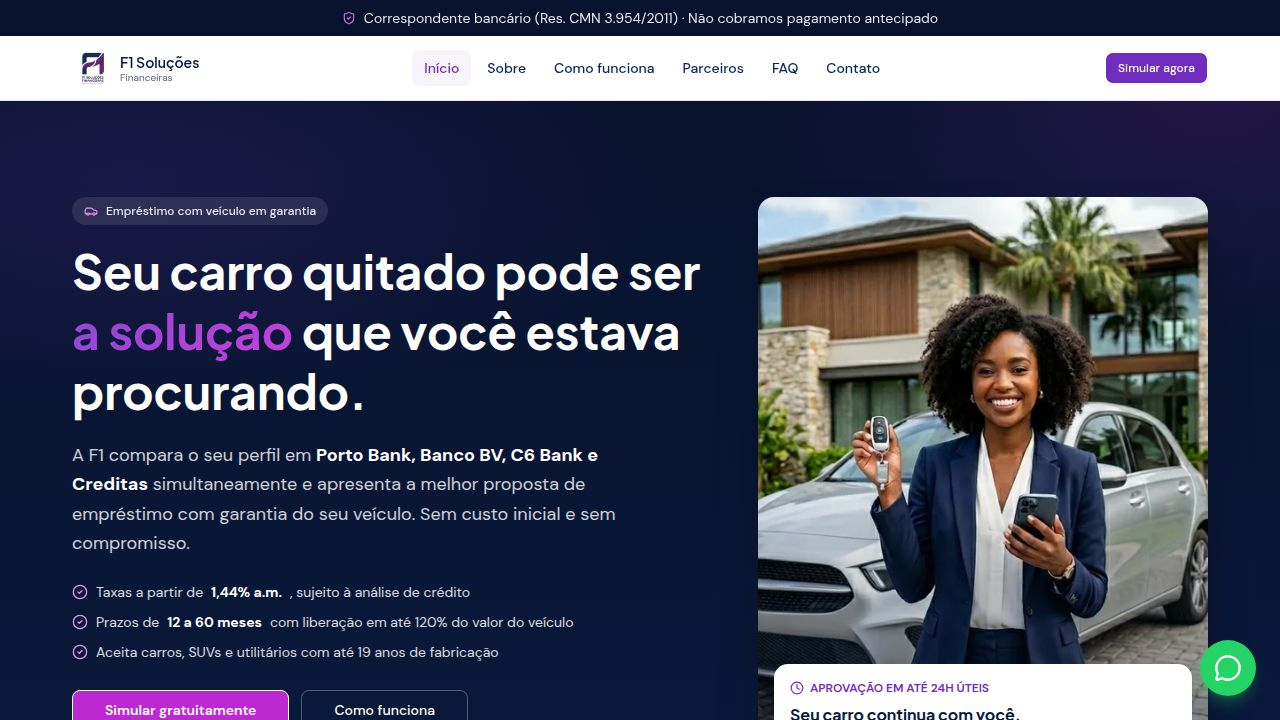
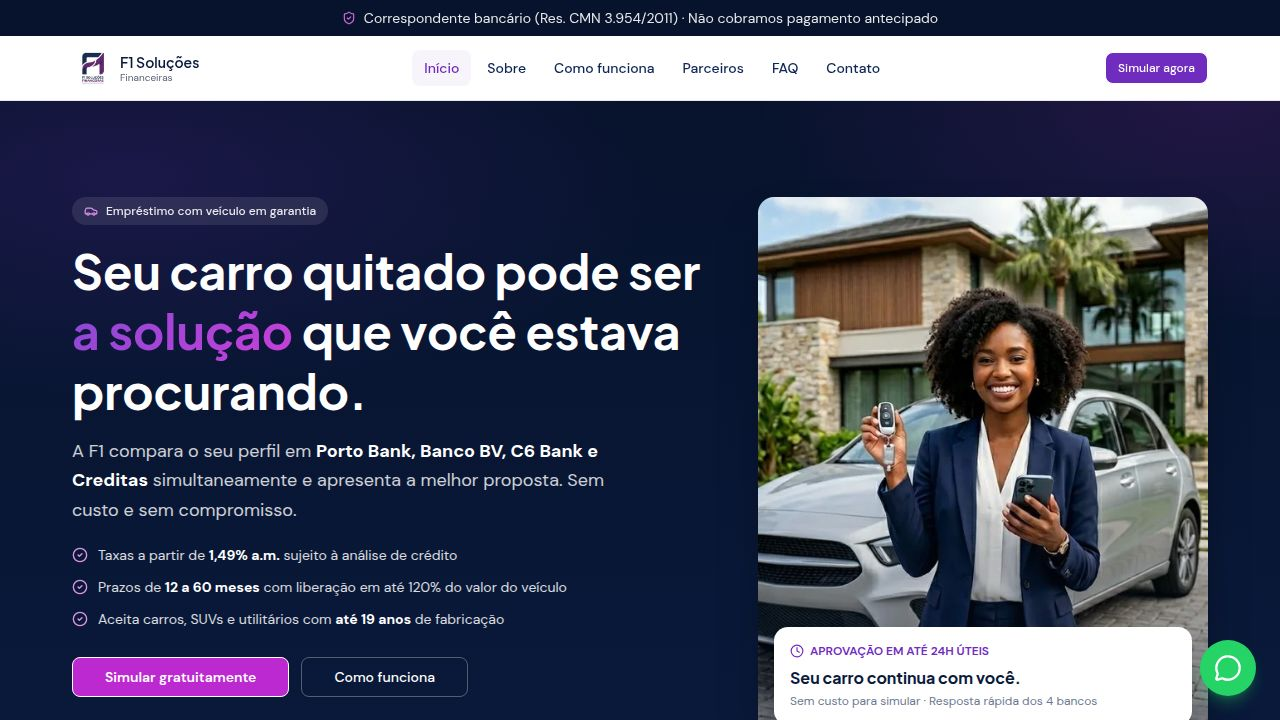
Improve mobile presentation with a cinematic hero image and better text alignment
Refactor HeroSection for mobile with a full-bleed background image and gradient overlay, adjust text and list item layouts, and reduce spacing on the Sobre page.

Replit-Commit-Author: Agent
Replit-Commit-Session-Id: aa7acf5c-8eef-40f1-8f8b-531ffc16d4ee
Replit-Commit-Checkpoint-Type: full_checkpoint
Replit-Commit-Event-Id: 178fa191-d023-44de-ae3d-55697f81d349
Replit-Commit-Screenshot-Url: https://storage.googleapis.com/screenshot-production-us-central1/b8c83a1a-91c6-4bc7-bae8-7a36ba54ba36/aa7acf5c-8eef-40f1-8f8b-531ffc16d4ee/ZhoQoNE
Replit-Helium-Checkpoint-Created: true

Changed region(s): [[0.5938, 0.275, 0.9688, 1.0], [0.0312, 0.6111, 0.5, 1.0], [0.5938, 0.275, 0.625, 0.3056]]

diff --git a/artifacts/f1-financeiras/src/components/sections/HeroSection.tsx b/artifacts/f1-financeiras/src/components/sections/HeroSection.tsx
@@ -6,8 +6,26 @@ import { Link } from "wouter";
 export function HeroSection() {
   return (
     <section className="relative overflow-hidden hero-gradient text-white">
-      <div className="container-f1 py-16 lg:py-24 relative z-10">
+
+      {/* Background image — full-bleed on mobile with gradient overlay */}
+      <div className="absolute inset-0 lg:hidden" aria-hidden="true">
+        <img
+          src="/images/hero-car-keys.webp"
+          alt=""
+          width={1200}
+          height={800}
+          fetchPriority="high"
+          decoding="async"
+          className="object-cover object-[60%_10%] w-full h-full"
+        />
+        {/* Overlay: transparent top shows person, opaque bottom keeps text legible */}
+        <div className="absolute inset-0 bg-gradient-to-b from-[hsl(221,72%,12%)]/45 via-[hsl(221,72%,12%)]/82 to-[hsl(221,72%,10%)]" />
+      </div>
+
+      <div className="container-f1 py-14 pb-16 lg:py-24 relative z-10">
         <div className="grid lg:grid-cols-12 gap-10 items-stretch">
+
+          {/* Main content */}
           <motion.div
             initial={{ opacity: 0, y: 12 }}
             animate={{ opacity: 1, y: 0 }}
@@ -18,32 +36,36 @@ export function HeroSection() {
               <Car className="h-3.5 w-3.5 text-[hsl(293,67%,75%)]" />
               Empréstimo com veículo em garantia
             </span>
-            <h1 className="font-display text-3xl sm:text-4xl lg:text-5xl font-bold leading-tight mt-4">
+
+            <h1 className="font-display text-[2rem] leading-[1.15] sm:text-4xl lg:text-5xl font-bold mt-4">
               Seu carro quitado pode ser{" "}
-              <span className="brand-gradient-text">a solução</span> que você estava procurando.
+              <span className="brand-gradient-text">a solução</span>{" "}
+              que você estava procurando.
             </h1>
-            <p className="mt-5 text-base sm:text-lg text-white/80 leading-relaxed max-w-xl">
-              A F1 compara o seu perfil em{" "}
+
+            <p className="mt-4 text-[0.95rem] sm:text-lg text-white/80 leading-relaxed">
+              A F1 compara seu perfil em{" "}
               <strong className="text-white">Porto Bank, Banco BV, C6 Bank e Creditas</strong>{" "}
-              simultaneamente e apresenta a melhor proposta de empréstimo com
-              garantia do seu veículo. Sem custo inicial e sem compromisso.
+              simultaneamente e apresenta a melhor proposta. Sem custo e sem compromisso.
             </p>
 
-            <ul className="mt-6 space-y-2.5 text-sm text-white/85">
-              <li className="flex items-start gap-2">
+            {/* Credential pills — mobile-friendly horizontal scroll on small screens */}
+            <div className="mt-5 flex flex-col gap-2.5 text-sm text-white/85">
+              <div className="flex items-start gap-2.5">
                 <CheckCircle2 className="h-4 w-4 mt-0.5 text-[hsl(293,67%,75%)] shrink-0" />
-                Taxas a partir de <strong className="text-white">1,49% a.m.</strong>, sujeito à análise de crédito
-              </li>
-              <li className="flex items-start gap-2">
+                <span>Taxas a partir de <strong className="text-white">1,49% a.m.</strong>, sujeito à análise de crédito</span>
+              </div>
+              <div className="flex items-start gap-2.5">
                 <CheckCircle2 className="h-4 w-4 mt-0.5 text-[hsl(293,67%,75%)] shrink-0" />
-                Prazos de <strong className="text-white">12 a 60 meses</strong> com liberação em até 120% do valor do veículo
-              </li>
-              <li className="flex items-start gap-2">
+                <span>Prazos de <strong className="text-white">12 a 60 meses</strong>, com liberação em até 120% do valor do veículo</span>
+              </div>
+              <div className="flex items-start gap-2.5">
                 <CheckCircle2 className="h-4 w-4 mt-0.5 text-[hsl(293,67%,75%)] shrink-0" />
-                Aceita carros, SUVs e utilitários com até 19 anos de fabricação
-              </li>
-            </ul>
+                <span>Carros, SUVs e utilitários com <strong className="text-white">até 19 anos</strong> de fabricação</span>
+              </div>
+            </div>
 
+            {/* CTAs */}
             <div className="mt-7 flex flex-col sm:flex-row gap-3">
               <Button
                 asChild
@@ -62,18 +84,26 @@ export function HeroSection() {
               </Button>
             </div>
 
-            <div className="mt-8 flex flex-wrap items-center gap-x-6 gap-y-3 text-xs text-white/60">
+            {/* Trust badges */}
+            <div className="mt-6 flex flex-wrap items-center gap-x-5 gap-y-2 text-xs text-white/55">
               <div className="flex items-center gap-1.5">
-                <ShieldCheck className="h-3.5 w-3.5" />
+                <ShieldCheck className="h-3.5 w-3.5 shrink-0" />
                 Correspondente bancário (Res. 3.954/2011)
               </div>
               <div className="flex items-center gap-1.5">
-                <Landmark className="h-3.5 w-3.5" />
+                <Landmark className="h-3.5 w-3.5 shrink-0" />
                 Parceiros regulados pelo Banco Central
               </div>
             </div>
+
+            {/* Mobile-only: approval strip — shown inline below trust badges */}
+            <div className="lg:hidden mt-5 flex items-center gap-2 rounded-lg bg-white/8 border border-white/10 px-4 py-3 text-xs text-white/80">
+              <Clock className="h-3.5 w-3.5 text-[hsl(293,67%,75%)] shrink-0" />
+              <span>Aprovação em até <strong className="text-white">24h úteis</strong> · Seu carro continua com você</span>
+            </div>
           </motion.div>
 
+          {/* Desktop-only: image panel */}
           <motion.div
             initial={{ opacity: 0, scale: 0.95 }}
             animate={{ opacity: 1, scale: 1 }}
@@ -105,6 +135,7 @@ export function HeroSection() {
               </div>
             </div>
           </motion.div>
+
         </div>
       </div>
     </section>

diff --git a/artifacts/f1-financeiras/src/pages/sobre.tsx b/artifacts/f1-financeiras/src/pages/sobre.tsx
@@ -22,7 +22,7 @@ export default function Sobre() {
           </div>
         </div>
 
-        <section className="py-16">
+        <section className="pt-2 pb-16">
           <div className="container-f1 max-w-3xl mx-auto">
 
             <div className="prose max-w-none">
